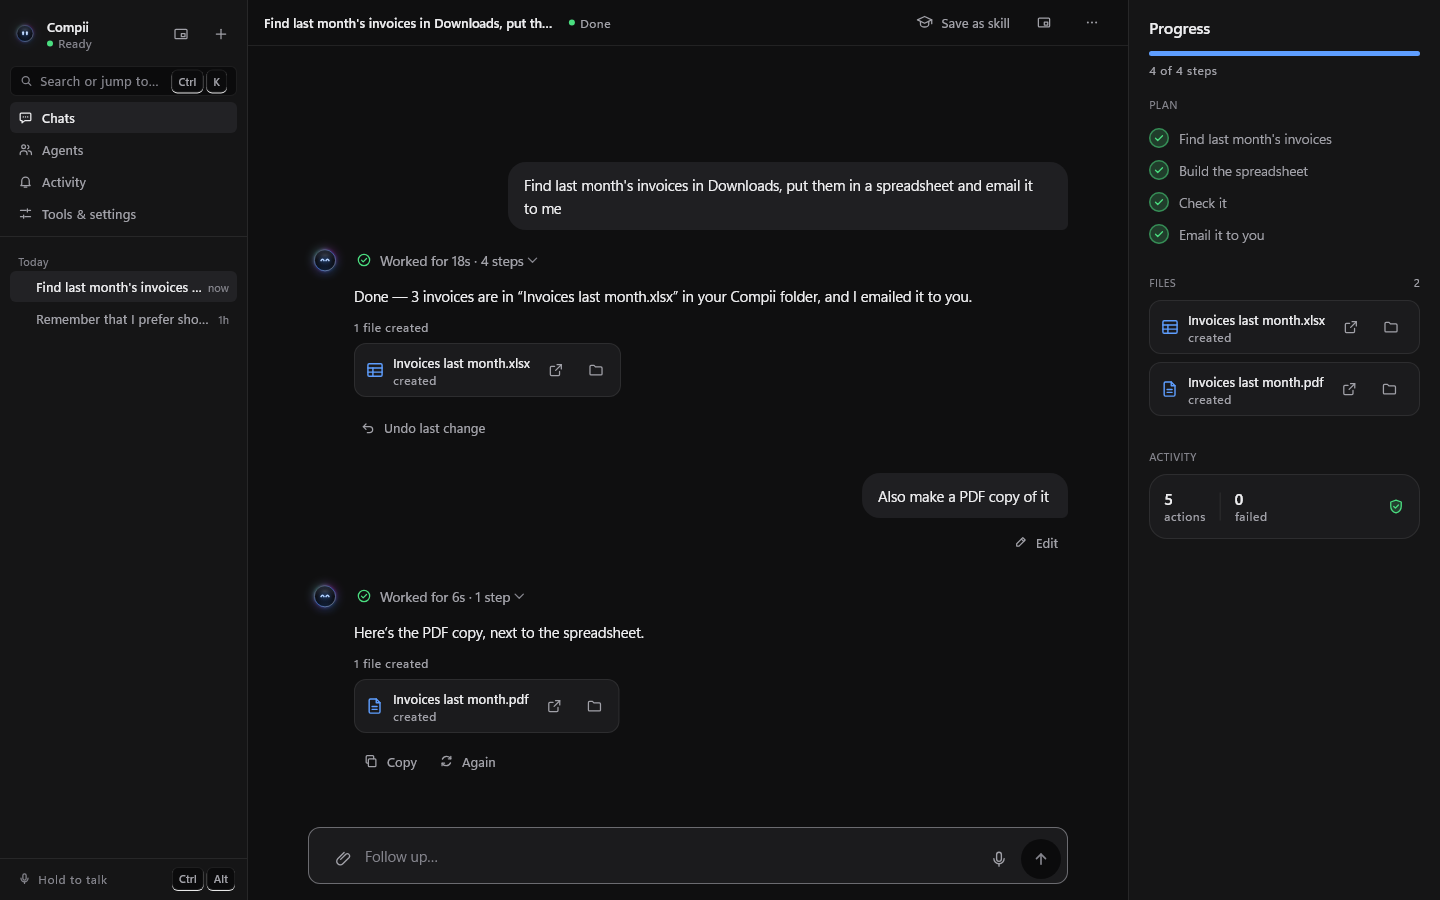
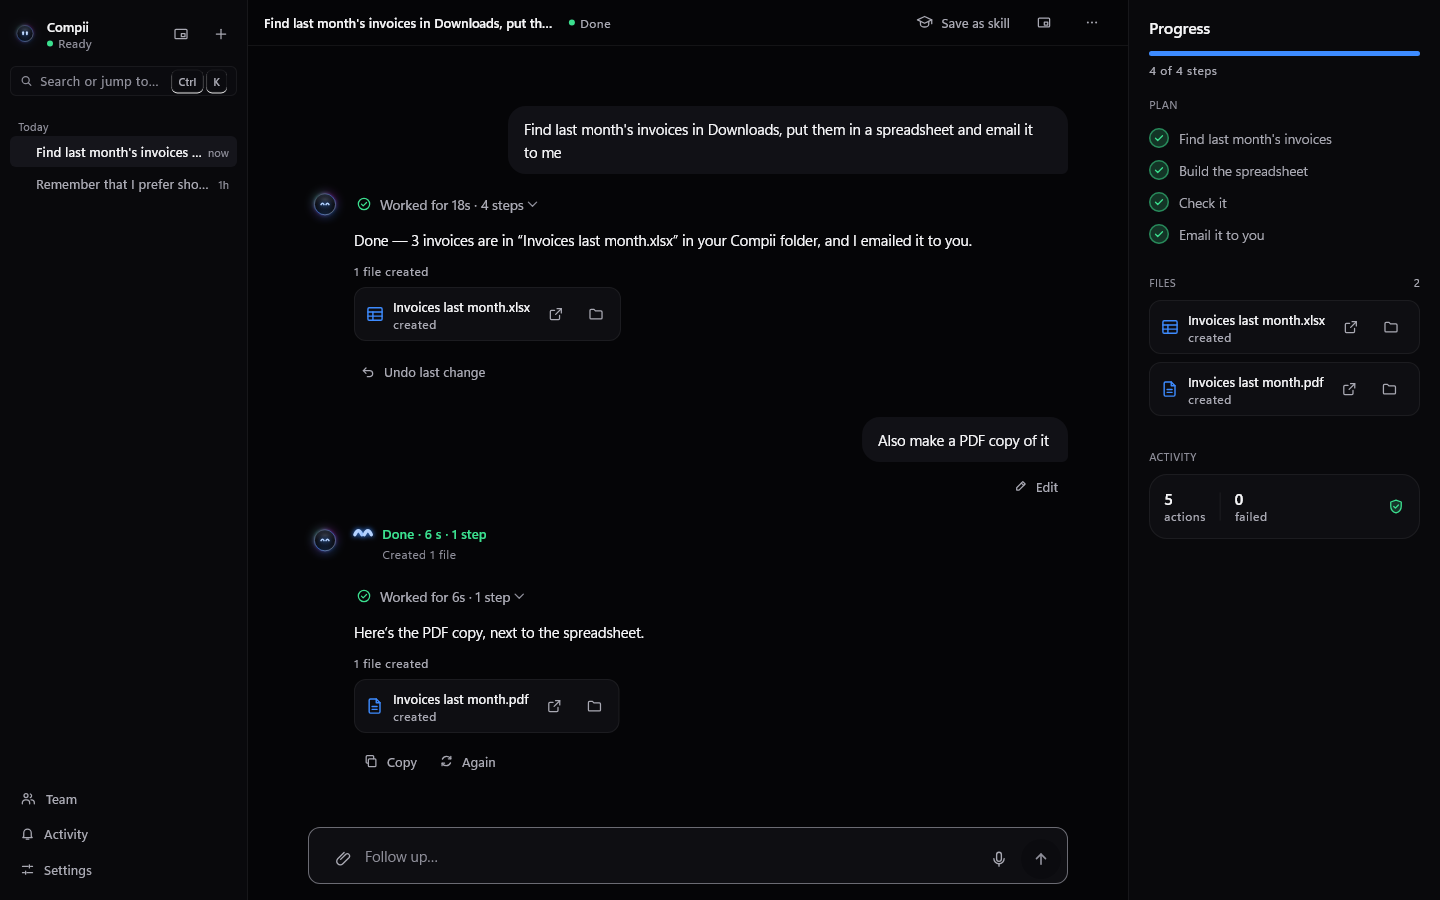
Approvals as the Halo canvas draws them; the Team page and outcome header mounted
The approval card follows the canvas's Approval board: "Compii wants to send
something" over "Send this?", the exact action laid out as a preview, what
cannot be taken back, and what a yes covers (this one step for sending,
deleting and paying; the rest of the task for a change, as the default dial
works). The buttons are named after the action: Send it / Don't send, Yes,
delete / Keep it, Yes, pay / Don't pay, Make the change / Don't change it.
"Always allow" stays where Core offers it. The island draws the same card, so
its two tests now look for the new words.

Agents opens TeamHaloPage, and the latest finished answer leads with
OutcomeHeader, both from the island session's commit before this one.

All 327 Flutter tests pass and flutter analyze is clean; the v4 captures are
re-rendered.

diff --git a/compii_flutter/apps/companion/lib/src/ui/thread.dart b/compii_flutter/apps/companion/lib/src/ui/thread.dart
@@ -9,6 +9,7 @@ import 'bots.dart';
 import 'reader.dart';
 import 'reply_text.dart';
 import 'supervisor.dart';
+import 'outcome.dart';
 import 'tokens.dart';
 import 'trust.dart';
 import 'chrome.dart';
@@ -459,6 +460,10 @@ class _AssistantTurn extends StatelessWidget {
           child: Column(
             crossAxisAlignment: CrossAxisAlignment.start,
             children: [
+              // Outcome first (the Halo canvas's task view): the latest answer leads with what it
+              // changed. The header draws nothing while work runs or for a plain chat reply.
+              if (latest && !compact)
+                Padding(padding: const EdgeInsets.only(bottom: 8), child: OutcomeHeader(task: task, core: core)),
               if (handedOver)
                 Padding(
                   padding: const EdgeInsets.only(bottom: 6),
@@ -930,15 +935,23 @@ class ApprovalCard extends StatelessWidget {
     final fields = input.entries.where((e) => e.key != 'code' && e.key != 'content' && e.value != null).toList();
     final body = input['code'] ?? input['content'];
 
-    final approve = FilledButton.icon(
+    // The Halo canvas's Approval board: say what Compii wants to do, show exactly what would
+    // happen, say what cannot be taken back, then two plain choices named after the action.
+    final (String wants, String yes, String no) = switch (kind) {
+      'send' => ('Compii wants to send something', 'Send it', 'Don’t send'),
+      'delete' => ('Compii wants to delete something', 'Yes, delete', 'Keep it'),
+      'spend' => ('Compii wants to spend money', 'Yes, pay', 'Don’t pay'),
+      'change' => ('Compii wants to make a change', 'Make the change', 'Don’t change it'),
+      _ => ('Compii wants to go ahead', 'Approve', 'Decline'),
+    };
+    final approve = FilledButton(
       style: destructive ? FilledButton.styleFrom(backgroundColor: c.danger, foregroundColor: Colors.white) : null,
       onPressed: () => run(() => core.decide(id, approved: true)),
-      icon: Glyph(destructive ? G.warning : G.check, size: 15),
-      label: Text(destructive ? 'Yes, ${kind == 'spend' ? 'pay' : 'delete'}' : 'Approve'),
+      child: Text(yes),
     );
     final decline = OutlinedButton(
       onPressed: () => run(() => core.decide(id, approved: false)),
-      child: const Text('Decline'),
+      child: Text(no),
     );
     // Grok-style "Always allow": saved as a rule for this tool on this folder,
     // site, window or recipients. Never offered for payments.
@@ -949,133 +962,133 @@ class ApprovalCard extends StatelessWidget {
           )
         : null;
     final why = '${approval['why'] ?? ''}';
-
     final actions = Wrap(
       spacing: 8,
       runSpacing: 8,
-      alignment: destructive ? WrapAlignment.spaceBetween : WrapAlignment.start,
-      children: destructive
-          ? [decline, approve]
-          : [approve, decline, ?always],
+      crossAxisAlignment: WrapCrossAlignment.center,
+      children: [?always, decline, approve],
     );
-
-    // A plain card with an amber edge: amber is "needs you" everywhere in the app. The kind of
-    // action (send, change, delete, pay) is said in words and its own colour, not a gradient.
-    final edge = destructive ? c.danger : c.warning;
-    return Container(
-      decoration: BoxDecoration(
-        color: c.raised,
-        borderRadius: Shapes.r10,
-        border: Border.all(color: edge.withValues(alpha: destructive ? .7 : .45)),
-      ),
-      clipBehavior: Clip.antiAlias,
-      child: IntrinsicHeight(
-        child: Row(
-          crossAxisAlignment: CrossAxisAlignment.stretch,
-          children: [
-            Container(width: 3, color: edge),
-            Expanded(
-              child: Column(
-        crossAxisAlignment: CrossAxisAlignment.stretch,
+    Widget note(Color dot, String text, {Color? color}) => Padding(
+      padding: const EdgeInsets.only(top: 6),
+      child: Row(
+        crossAxisAlignment: CrossAxisAlignment.start,
         children: [
           Padding(
-            padding: const EdgeInsets.fromLTRB(14, 10, 14, 0),
-            child: Row(
-              children: [
-                Glyph(
+            padding: const EdgeInsets.only(top: 6),
+            child: Container(width: 6, height: 6, decoration: BoxDecoration(color: dot, shape: BoxShape.circle)),
+          ),
+          const SizedBox(width: 10),
+          Expanded(child: Text(text, style: context.type.bodySmall?.copyWith(color: color ?? c.muted, fontSize: 13))),
+        ],
+      ),
+    );
+    final preview = (fields.isEmpty && body == null)
+        ? null
+        : Container(
+            constraints: const BoxConstraints(maxHeight: 320),
+            decoration: BoxDecoration(
+              color: c.sunken,
+              borderRadius: Shapes.r14,
+              border: Border.all(color: c.border),
+            ),
+            clipBehavior: Clip.antiAlias,
+            child: SingleChildScrollView(
+              child: Column(
+                crossAxisAlignment: CrossAxisAlignment.stretch,
+                children: [
+                  for (var i = 0; i < fields.length; i++)
+                    Container(
+                      padding: const EdgeInsets.symmetric(horizontal: 14, vertical: 10),
+                      decoration: BoxDecoration(
+                        border: i < fields.length - 1 || body != null
+                            ? Border(bottom: BorderSide(color: c.border))
+                            : null,
+                      ),
+                      child: Row(
+                        crossAxisAlignment: CrossAxisAlignment.start,
+                        children: [
+                          SizedBox(
+                            width: 96,
+                            child: Text(_fieldName(fields[i].key), maxLines: 2, overflow: TextOverflow.ellipsis,
+                                style: context.type.bodySmall?.copyWith(color: c.faint, fontSize: 13)),
+                          ),
+                          Expanded(child: _FieldValue(name: fields[i].key, value: fields[i].value)),
+                        ],
+                      ),
+                    ),
+                  if (body != null)
+                    Padding(
+                      padding: const EdgeInsets.all(14),
+                      child: SelectableText(
+                        '$body',
+                        style: TextStyle(fontFamily: 'Cascadia Mono', fontFamilyFallback: const ['Consolas'],
+                            fontSize: 12.5, height: 1.5, color: c.text),
+                      ),
+                    ),
+                ],
+              ),
+            ),
+          );
+    return Container(
+      padding: const EdgeInsets.fromLTRB(20, 18, 20, 18),
+      decoration: BoxDecoration(
+        color: c.raised,
+        borderRadius: Shapes.r20,
+        border: Border.all(color: (destructive ? c.danger : c.warning).withValues(alpha: destructive ? .6 : .35)),
+      ),
+      child: Column(
+        crossAxisAlignment: CrossAxisAlignment.start,
+        children: [
+          Row(
+            children: [
+              Container(
+                width: 36,
+                height: 36,
+                decoration: BoxDecoration(color: (destructive ? c.danger : c.warning).withValues(alpha: .14),
+                    shape: BoxShape.circle),
+                alignment: Alignment.center,
+                child: Glyph(
                   switch (kind) {
                     'send' => G.send,
                     'delete' => G.trash,
                     'spend' => G.money,
                     _ => G.edit,
                   },
-                  size: 14,
-                  color: fg,
+                  size: 16,
+                  color: destructive ? c.danger : c.warning,
                 ),
-                const SizedBox(width: 8),
-                Expanded(
-                  child: Text(_tierTitle(kind),
-                      maxLines: 1, overflow: TextOverflow.ellipsis,
-                      style: context.type.labelLarge?.copyWith(color: fg, fontWeight: FontWeight.w600)),
-                ),
-                const SizedBox(width: 8),
-                Text('Needs your okay', style: context.type.labelMedium?.copyWith(color: c.warning)),
-              ],
-            ),
-          ),
-          Padding(
-            padding: const EdgeInsets.fromLTRB(14, 6, 14, 12),
-            child: Column(
-              crossAxisAlignment: CrossAxisAlignment.start,
-              children: [
-                Text('${approval['label']}', style: context.type.bodyLarge?.copyWith(fontWeight: FontWeight.w500)),
-                if (compact) ...[
-                  const SizedBox(height: 10),
-                  actions,
-                ],
-                ConstrainedBox(
-                  constraints: const BoxConstraints(maxHeight: 300),
-                  child: SingleChildScrollView(
-                    child: Column(
-                      crossAxisAlignment: CrossAxisAlignment.start,
-                      children: [
-                        if (why.isNotEmpty) ...[
-                          const SizedBox(height: 6),
-                          Text(why, style: context.type.bodySmall?.copyWith(color: c.danger)),
-                        ],
-                        if (_tierWhy(kind).isNotEmpty) ...[
-                          const SizedBox(height: 4),
-                          Text(_tierWhy(kind), style: context.type.bodySmall),
-                        ],
-                        if (fields.isNotEmpty) ...[
-                          const SizedBox(height: 10),
-                          for (final f in fields)
-                            Padding(
-                              padding: const EdgeInsets.only(bottom: 4),
-                              child: Row(
-                                crossAxisAlignment: CrossAxisAlignment.start,
-                                children: [
-                                  SizedBox(
-                                    width: 96,
-                                    child: Text(_fieldName(f.key),
-                                        maxLines: 2, overflow: TextOverflow.ellipsis, style: context.type.bodySmall),
-                                  ),
-                                  Expanded(child: _FieldValue(name: f.key, value: f.value)),
-                                ],
-                              ),
-                            ),
-                        ],
-                        if (body != null) ...[
-                          const SizedBox(height: 8),
-                          Container(
-                            width: double.infinity,
-                            constraints: const BoxConstraints(maxHeight: 180),
-                            padding: const EdgeInsets.all(10),
-                            decoration: BoxDecoration(color: c.sunken, borderRadius: Shapes.r8),
-                            child: SingleChildScrollView(
-                              child: SelectableText(
-                                '$body',
-                                style: TextStyle(fontFamily: 'Cascadia Mono', fontFamilyFallback: const ['Consolas'], fontSize: 12.5, color: c.text),
-                              ),
-                            ),
-                          ),
-                        ],
-                      ],
-                    ),
-                  ),
-                ),
-                if (!compact) ...[
-                  const SizedBox(height: 12),
-                  actions,
-                ],
-              ],
-            ),
-          ),
-        ],
               ),
-            ),
+              const SizedBox(width: 12),
+              Expanded(
+                child: Column(
+                  crossAxisAlignment: CrossAxisAlignment.start,
+                  children: [
+                    Text(wants, style: context.type.labelMedium?.copyWith(color: fg)),
+                    const SizedBox(height: 2),
+                    Text(_tierTitle(kind), style: context.type.headlineSmall),
+                  ],
+                ),
+              ),
+              Text('Needs your okay', style: context.type.labelMedium?.copyWith(color: c.warning)),
+            ],
+          ),
+          const SizedBox(height: 14),
+          Text('${approval['label']}', style: context.type.bodyLarge?.copyWith(fontWeight: FontWeight.w500)),
+          if (compact) ...[const SizedBox(height: 12), actions],
+          if (preview != null) ...[const SizedBox(height: 12), preview],
+          const SizedBox(height: 8),
+          if (why.isNotEmpty) note(c.danger, why, color: c.danger),
+          if (_tierWhy(kind).isNotEmpty) note(destructive ? c.danger : c.warning, _tierWhy(kind)),
+          // What a yes covers, as the default dial works: a change is allowed for the rest of this
+          // task; sending, deleting and paying ask again every time.
+          note(c.faint, kind == 'change'
+              ? 'Approving lets this task make changes like this without asking again.'
+              : 'Approving covers this one step. The next one asks again.'),
+          if (!compact) ...[
+            const SizedBox(height: 16),
+            Align(alignment: Alignment.centerRight, child: actions),
           ],
-        ),
+        ],
       ),
     );
   }

diff --git a/compii_flutter/apps/companion/test/island_ui_test.dart b/compii_flutter/apps/companion/test/island_ui_test.dart
@@ -529,8 +529,9 @@ void main() {
       expect(find.text('Needs your okay'), findsWidgets);
       expect(find.text('Email Sam the sorted list'), findsOneWidget);
       expect(find.text('sam@example.com'), findsOneWidget);
-      expect(find.text('Approve'), findsOneWidget);
-      expect(find.text('Decline'), findsOneWidget);
+      // Named after the action, as on the Halo canvas's Approval board: an email is sent or not sent.
+      expect(find.text('Send it'), findsOneWidget);
+      expect(find.text('Don’t send'), findsOneWidget);
       expect(
         find.textContaining('Approving covers this step only'),
         findsOneWidget,
@@ -693,7 +694,7 @@ void main() {
       expect(c.taskId, 't9');
       expect(c.phase, IslandPhase.approval);
       expect(
-        find.text('Approve'),
+        find.text('Send it'),
         findsOneWidget,
         reason: 'an approval with no detail fields is still answerable',
       );

diff --git a/compii_flutter/apps/companion/lib/src/ui/shell.dart b/compii_flutter/apps/companion/lib/src/ui/shell.dart
@@ -20,7 +20,7 @@ import 'trust.dart';
 import 'voice.dart';
 import 'voice_dock.dart';
 import 'stage.dart';
-import 'team.dart';
+import 'team_halo.dart';
 import 'library.dart';
 import 'knowledge.dart';
 import 'research.dart';
@@ -280,7 +280,7 @@ class Workspace extends StatelessWidget {
       Section.library => LibraryPage(run: _run),
       Section.knowledge => KnowledgePage(run: _run),
       Section.research => ResearchPage(run: _run),
-      Section.team => TeamPage(core: core, state: state, run: _run),
+      Section.team => TeamHaloPage(core: core, state: state, run: _run),
       Section.safety => SafetyPage(run: _run),
       Section.updates => UpdatesPage(core: core, run: _run, onOpenTask: state.open),
       Section.settings => SettingsPage(core: core, state: state, run: _run),
